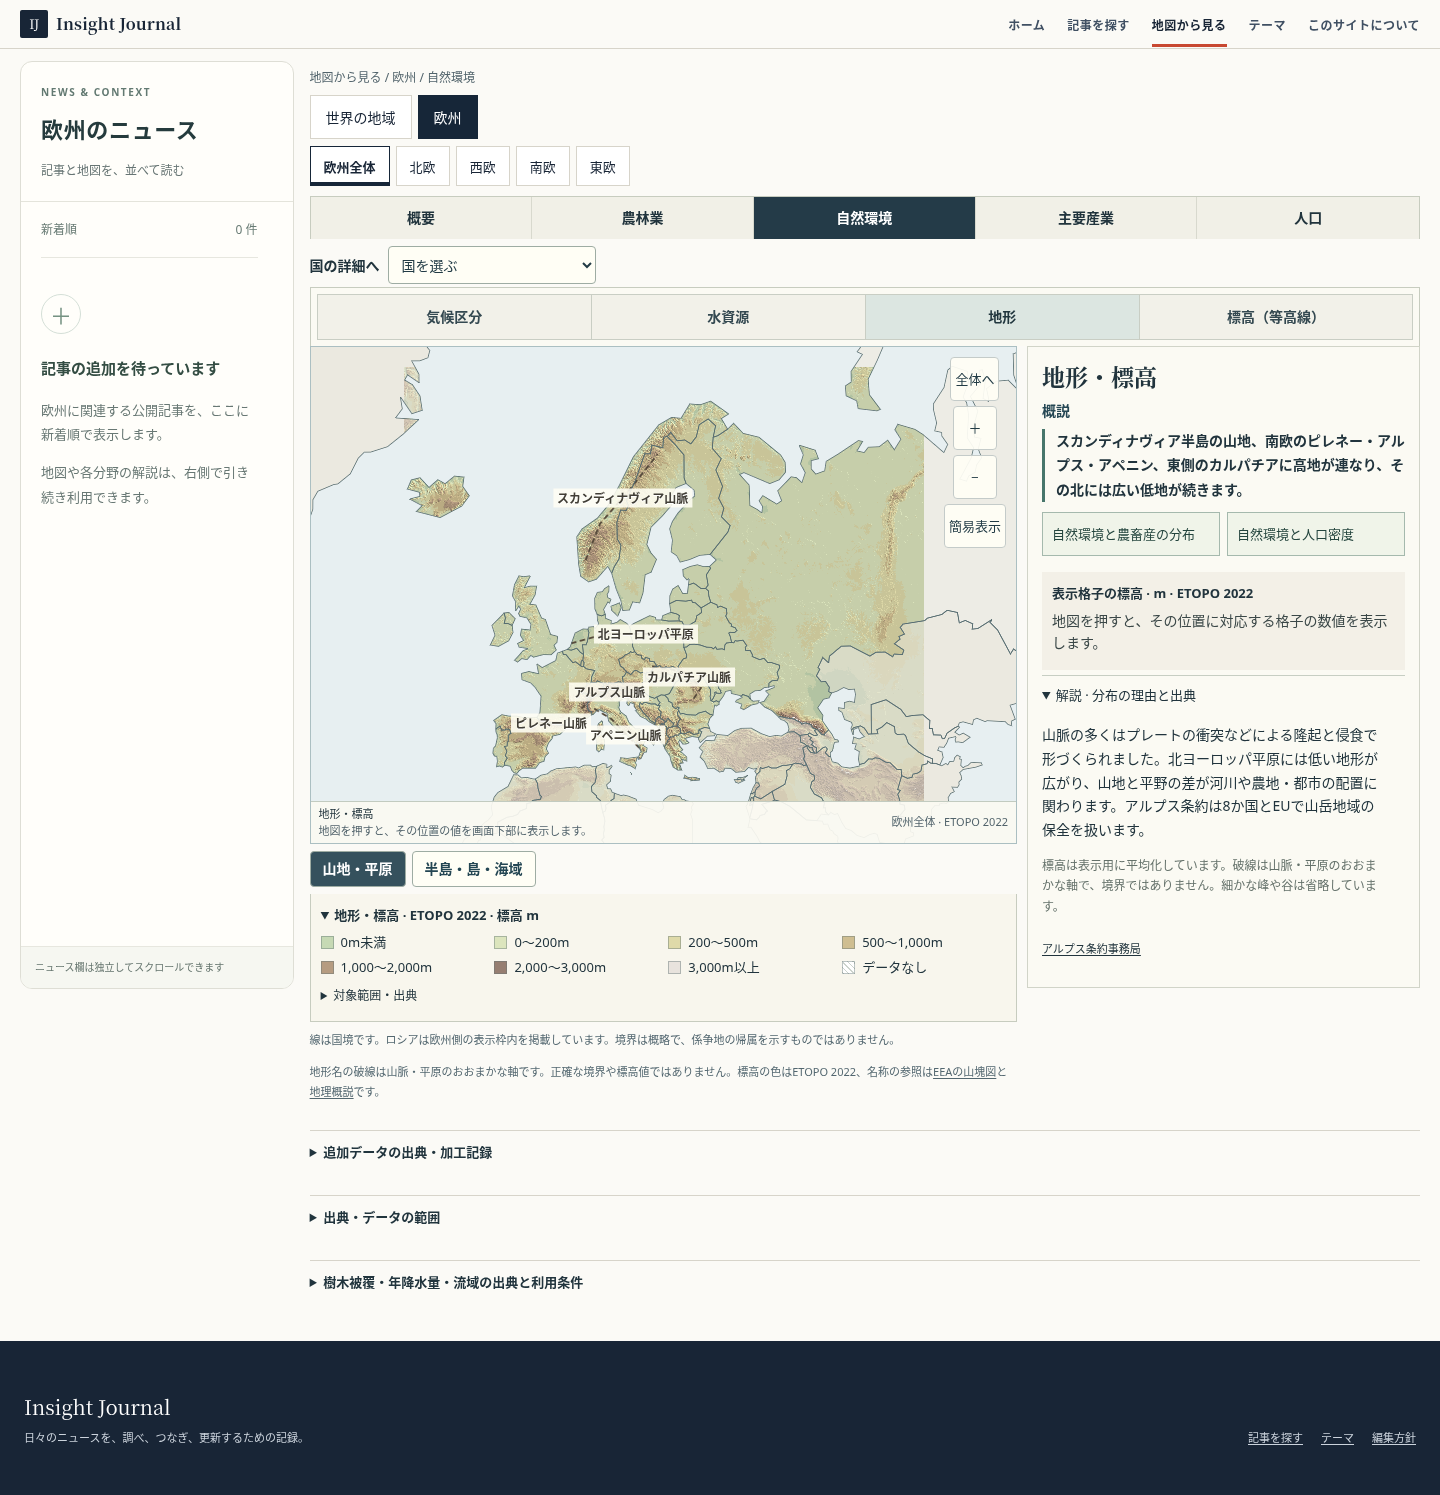
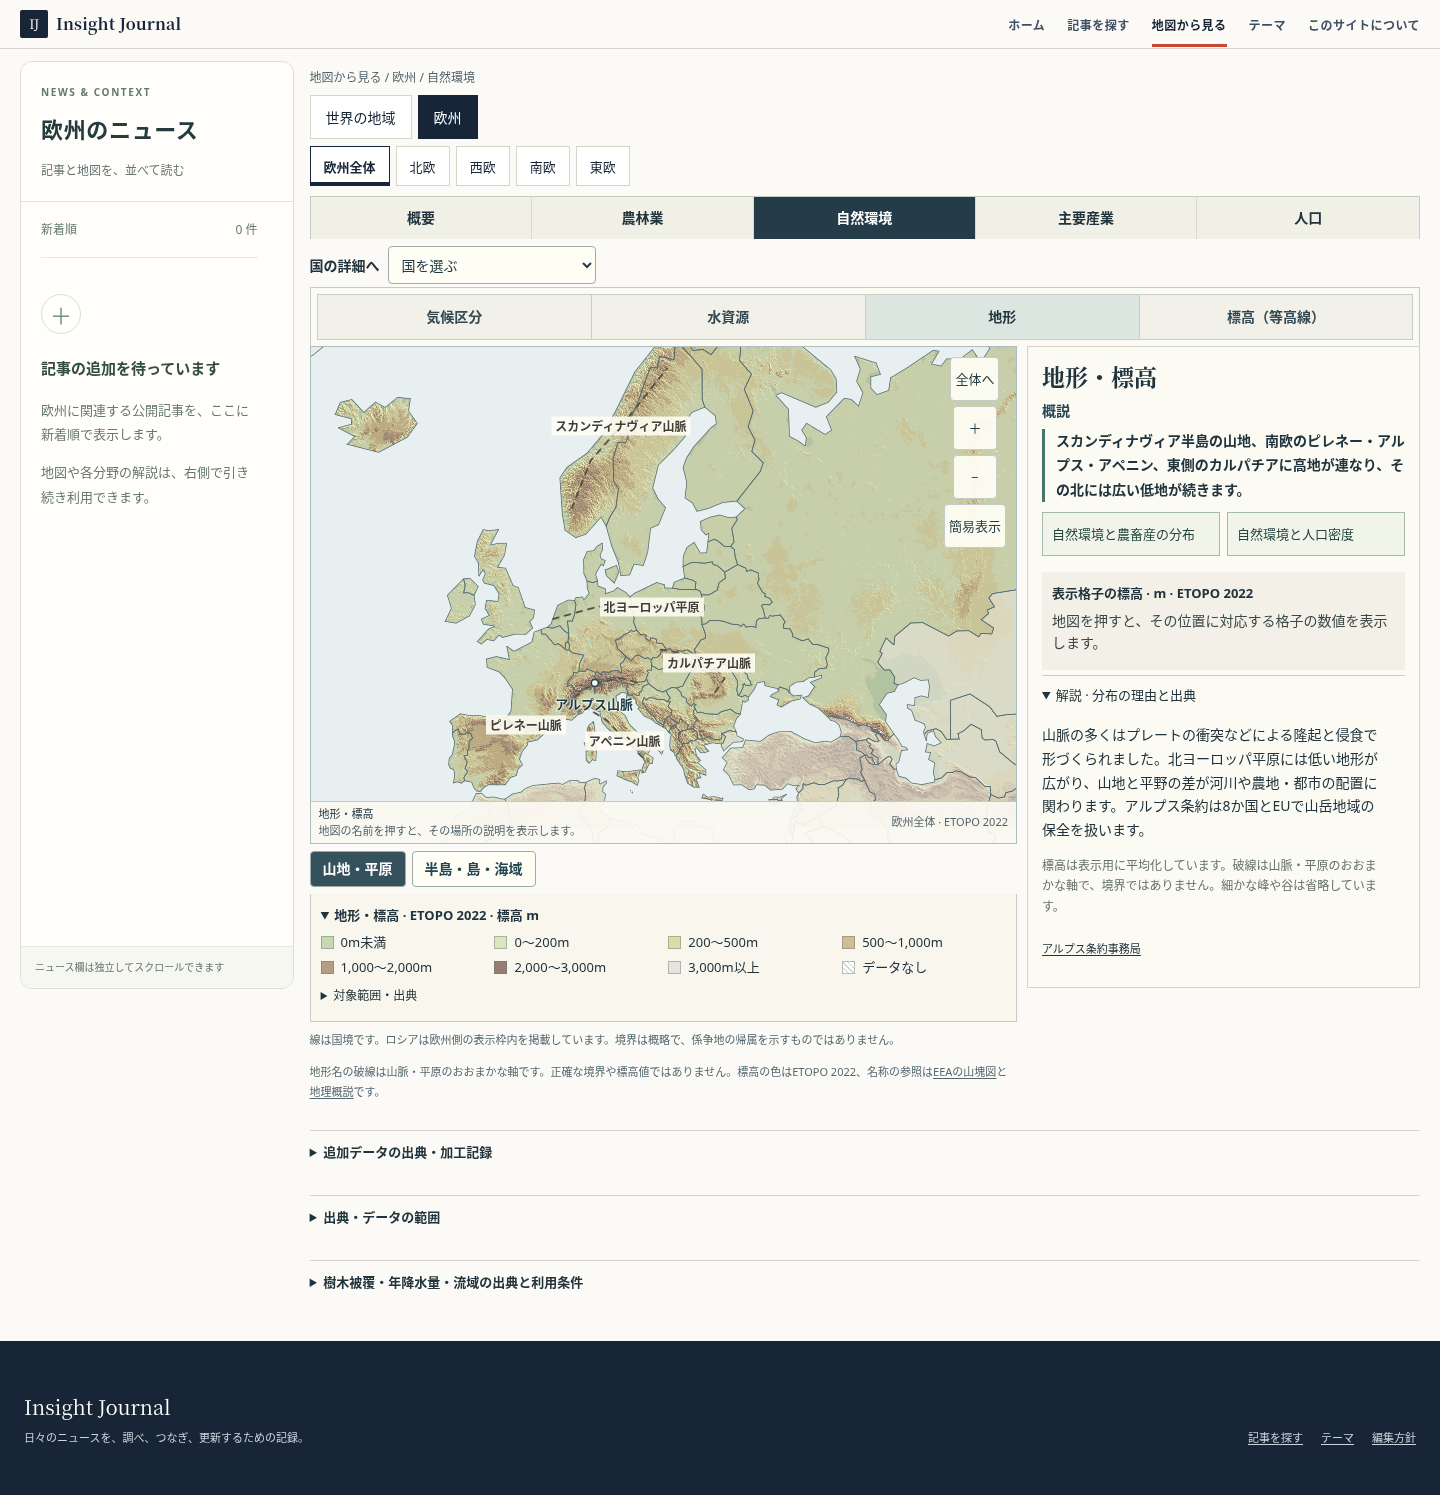
Align Europe acceptance checks with revised map behavior

Changed region(s): [[0.2812, 0.2154, 0.7188, 0.5846], [0.2188, 0.2462, 0.3125, 0.3077]]

diff --git a/src/lib/atlas-europe-explorer.ts b/src/lib/atlas-europe-explorer.ts
@@ -184,7 +184,7 @@ export function initEuropeAtlas() {
   });
   const farmingView=()=>farmingPresentation(state,farmingItems);
   const features = [...config.populationCities,...config.readings,...europeCultureOverviewPlaces];
-    const visibleFeatures = () => subject().field==='population'&&!cultureActive() ? config.populationCities : subject().field==='industry' ? config.readings.filter(r=>r.field==='industry') : subject().field==='nature'&&['water','drainage'].includes(state.layer) ? config.readings.filter(r=>r.field==='nature'&&r.layer==='water') : [];
+  const visibleFeatures = () => subject().field==='population'&&!cultureActive() ? config.populationCities : subject().field==='industry' ? config.readings.filter(r=>r.field==='industry') : subject().field==='nature'&&['water','drainage','terrain'].includes(state.layer) ? config.readings.filter(r=>r.field==='nature'&&r.layer===(['water','drainage'].includes(state.layer)?'water':'terrain')) : [];
   const featureVisible = (id:string) => {
     const p=visibleFeatures().find(p=>p.id===id); if(!p)return false;
     if(subject().field==='industry')return true;
@@ -211,7 +211,7 @@ export function initEuropeAtlas() {
     node.setAttribute('aria-label',`${label.mm} mm等雨量線`);
     query<HTMLElement>('.eu-map-stage').append(node);return {node,label};
   });
-  const terrainLabels=[...europeTerrainGuides.map(label=>({...label,mode:'landforms'})),...europeTerrainPlaceNames.map(label=>({...label,mode:'coasts'}))].map(label=>{
+  const terrainLabels=[...europeTerrainGuides.filter(label=>label.name!=='アルプス山脈').map(label=>({...label,mode:'landforms'})),...europeTerrainPlaceNames.map(label=>({...label,mode:'coasts'}))].map(label=>{
     const node=document.createElement('span');node.className='eu-terrain-place-label';
     node.textContent=label.name;query<HTMLElement>('.eu-map-stage').append(node);return {node,label};
   });
@@ -249,7 +249,7 @@ export function initEuropeAtlas() {
     if(state.farmMeasure&&!europeFarmAvailableMetrics(id).some(metric=>metric.id===state.farmMeasure))delete state.farmMeasure;
     if(!farmingItems.some(item=>item.id===id))delete state.single;
     query<HTMLElement>('[data-eu-farm-candidates]').hidden=true;
-    if(save)commit(false);
+    if(save)commit(['water','drainage','precipitation','terrain','contours','density'].includes(id)&&state.region==='all'&&!state.place);
   }
   function selectFeature(id:string) {
     const composition=europeCultureOverviewPlaces.find(item=>item.id===id);

diff --git a/docs/review/europe-2026-10-08/README.md b/docs/review/europe-2026-10-08/README.md
@@ -27,4 +27,4 @@ Draft PR 用の確認記録です。1440 × 1000 px の Chromium で本番ビル
 - 宗教：4か国の地域表と各表の母集団・未回答を確認。全国値を地方へ複写しない。
 - 流域：現在のBasinATLAS level 4区画を川全流域と呼び替えず、全流域・本流・河口の検証済み形状を追加する。
 
-ローカルの `npm run build` は成功、欧州中心の単体・レイアウト検証は29件成功、PCの主要画面と国別移動・産業10分野・地形切替・降水量ラベルを確認しました。全地域E2Eは長時間のため中断し、欧州ワークスペースのHappy DOMテストはワーカが約27秒後に終了（詳細な失敗箇所を出力できず）。Draft PRの検証ではブラウザ操作を優先します。
+ローカルの `npm run build` は成功、全単体テストは1028件中1025件成功・3件スキップ、欧州中心のE2Eは50件成功しました。PCの主要画面と国別移動・産業10分野・地形切替・降水量ラベルを確認し、PCブラウザ検証は1440×1000と1024×800の両方で通しました。全地域E2Eは別途CIで確認します。
